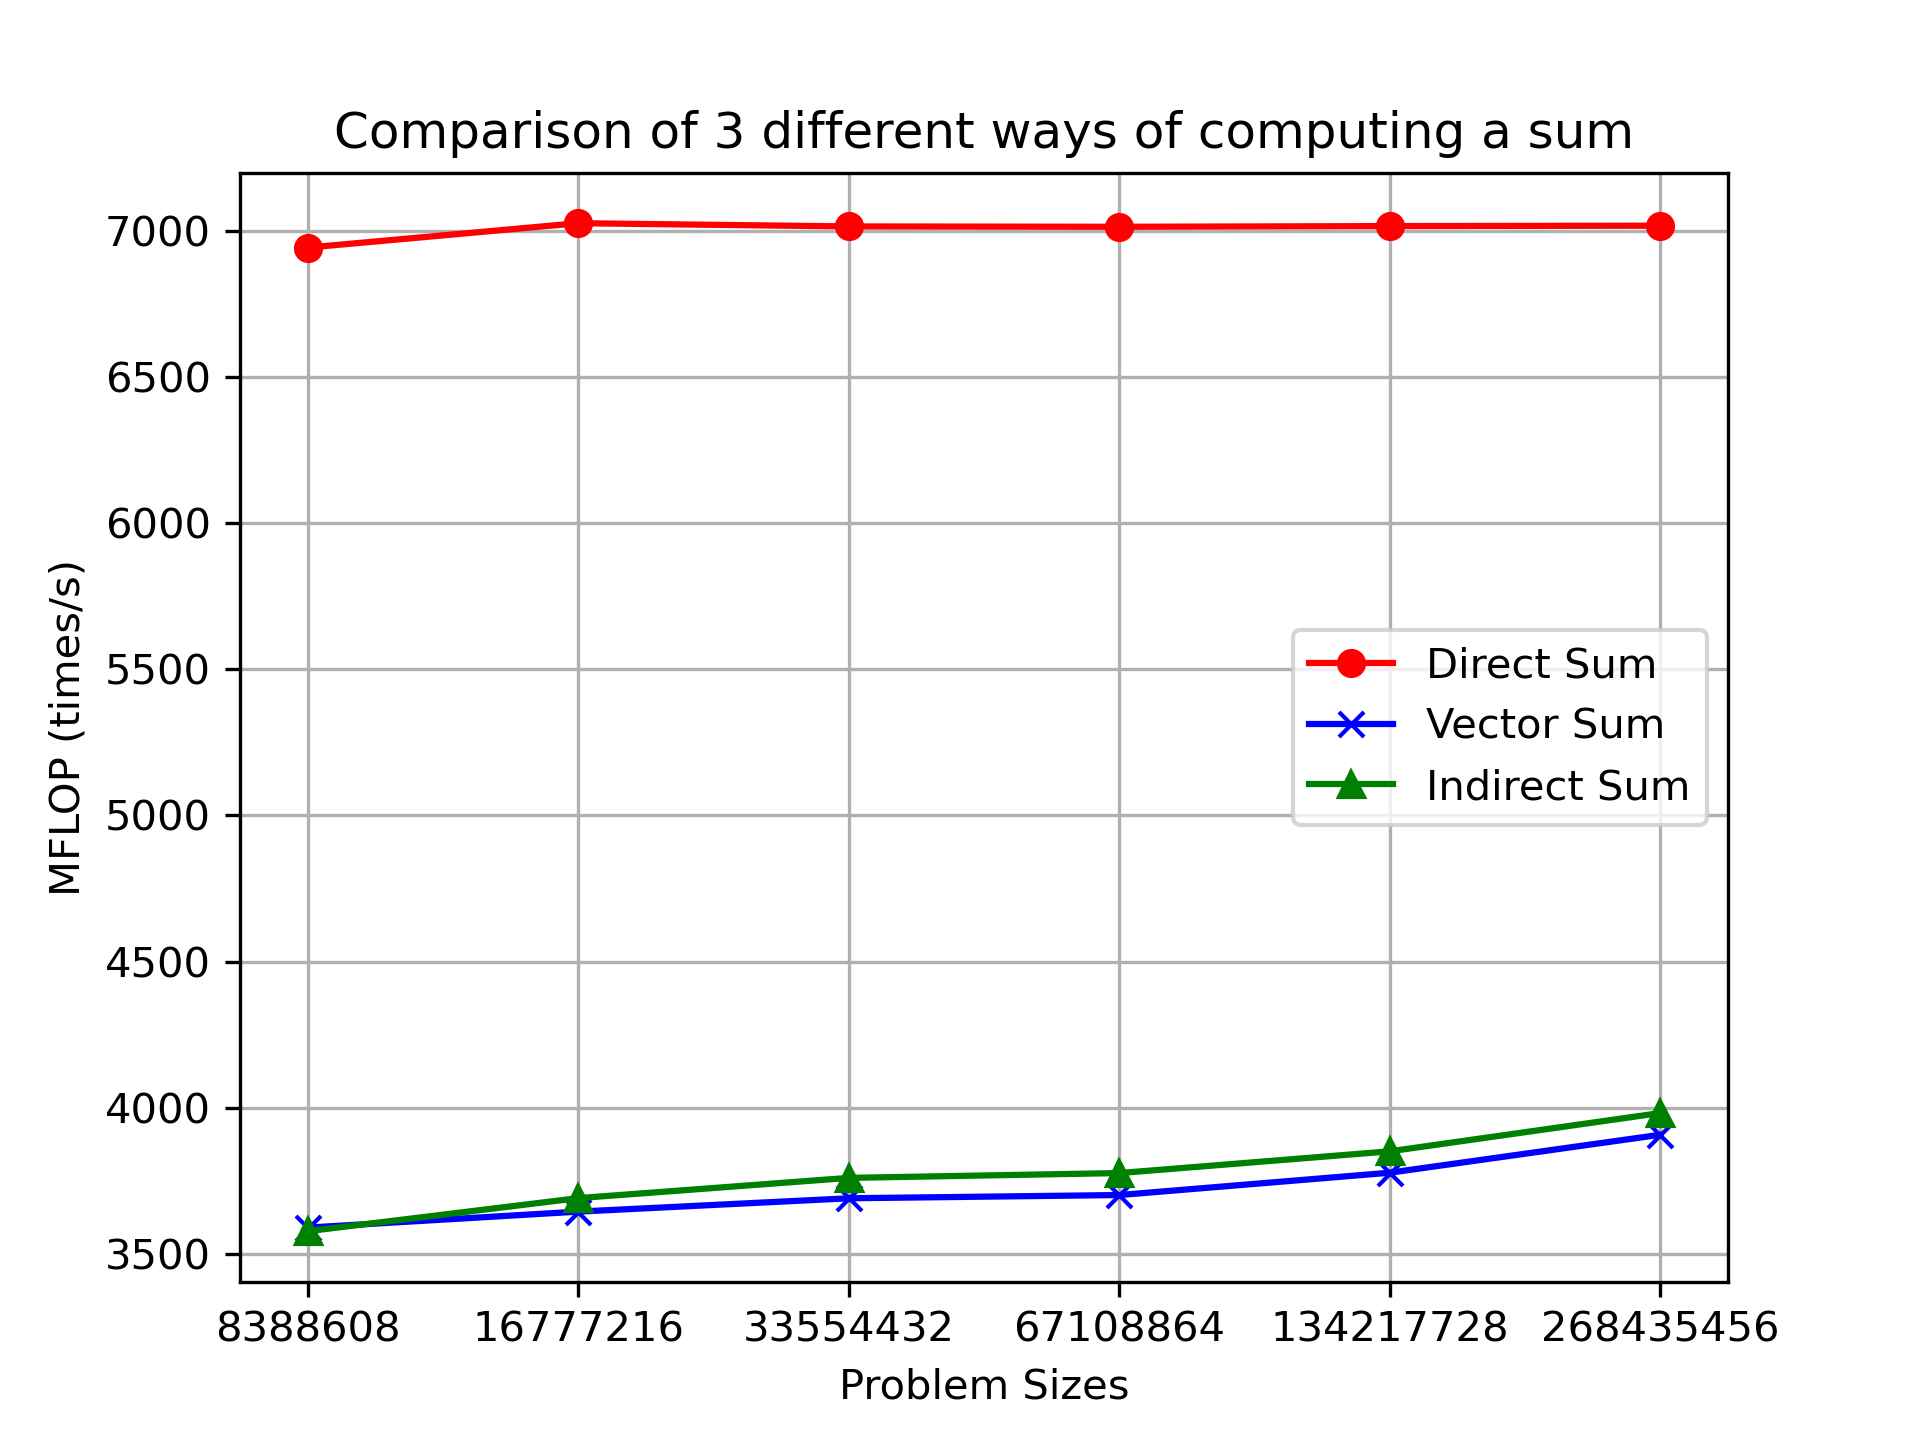
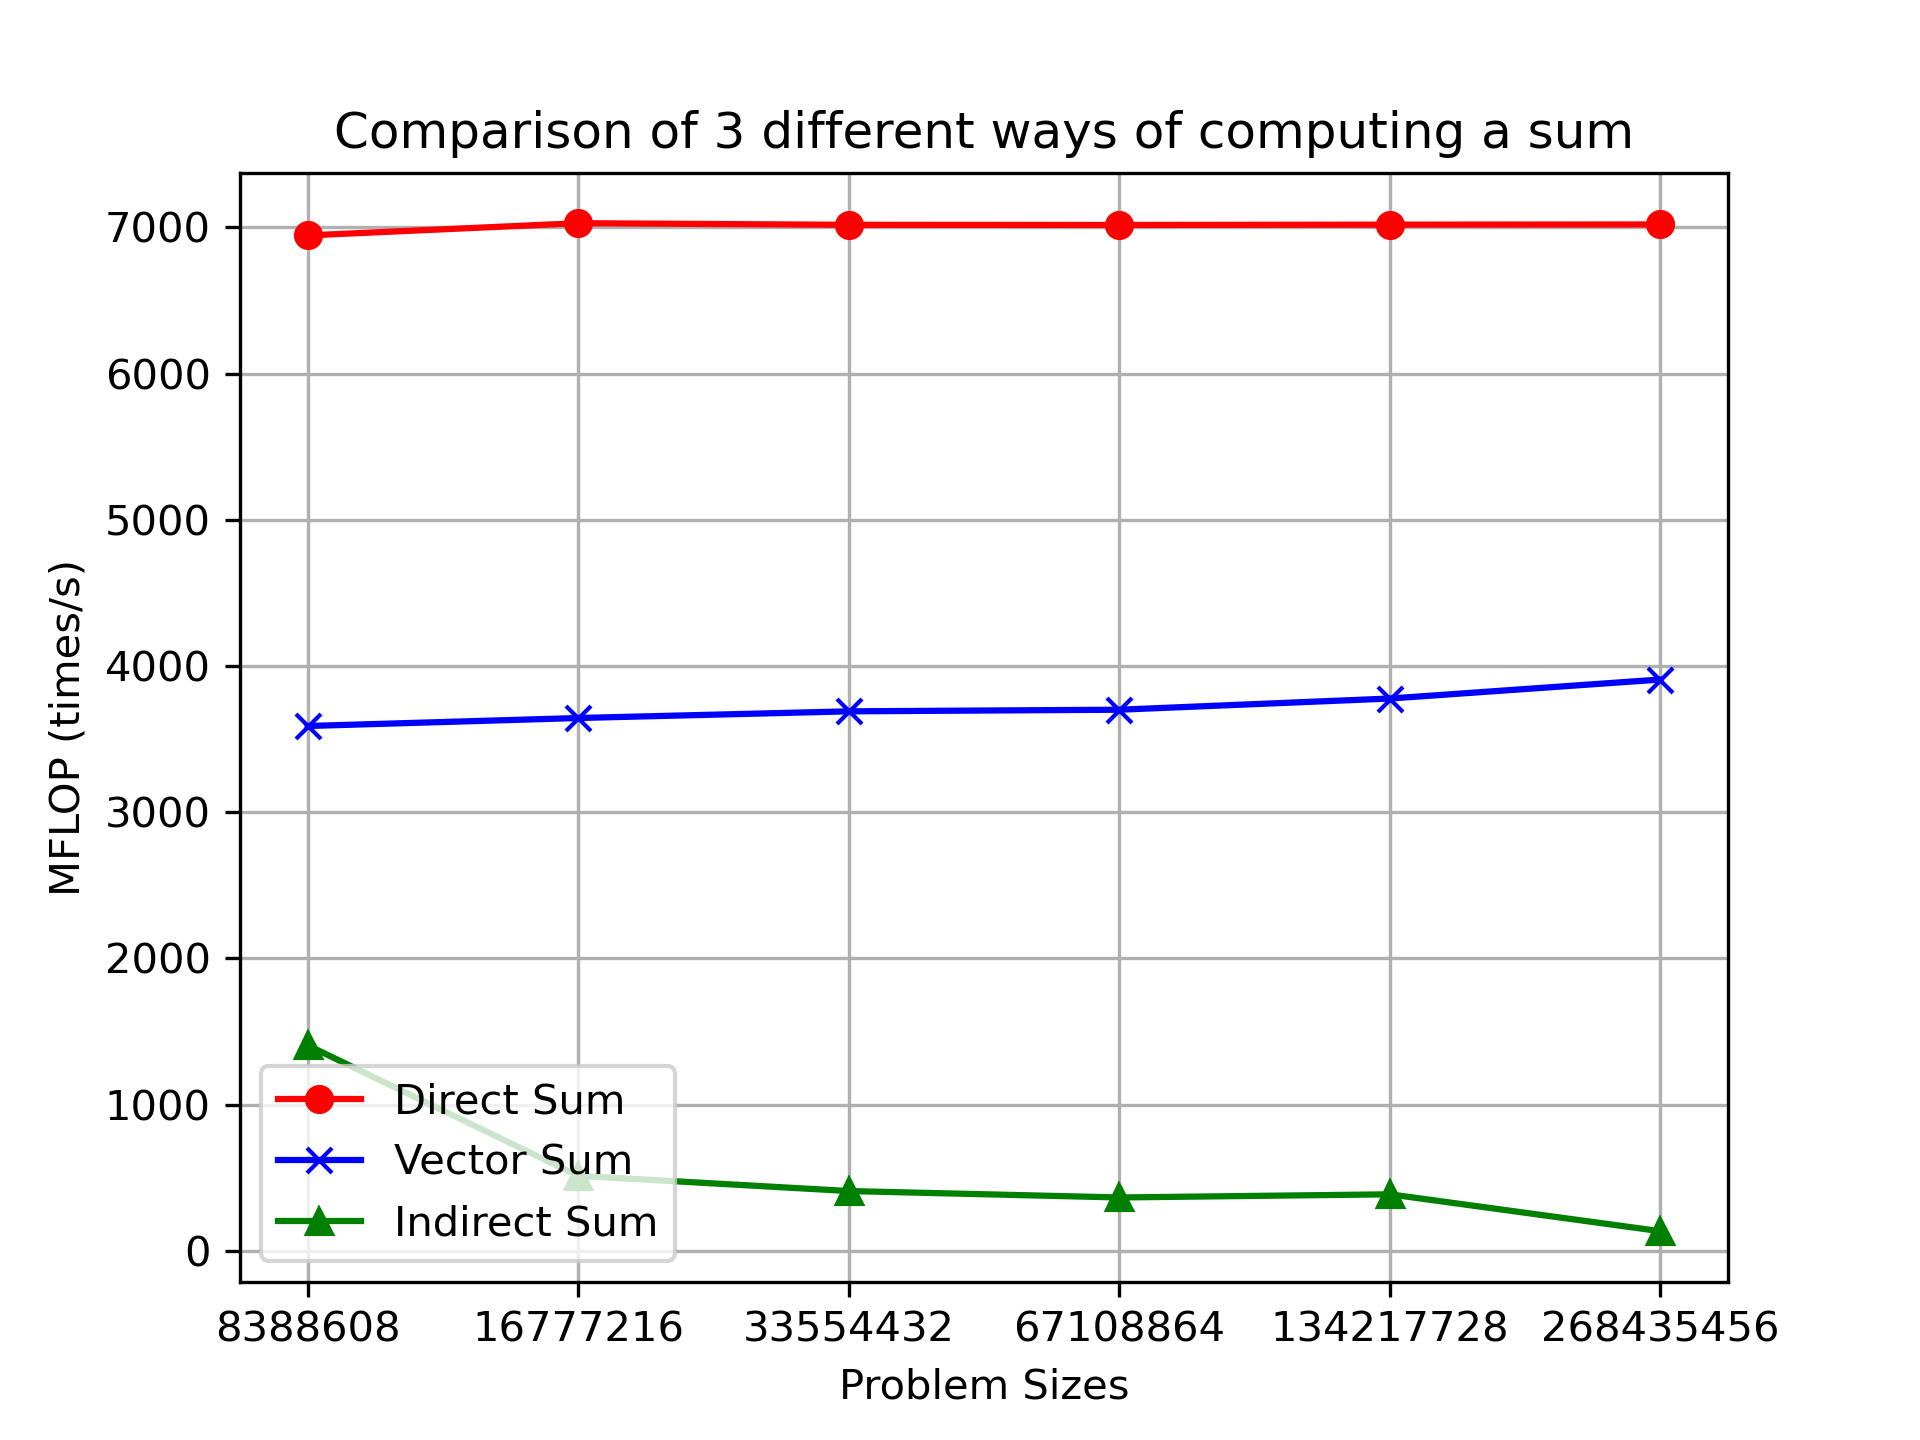
chore: update figures

diff --git a/benchmark.cpp b/benchmark.cpp
@@ -15,7 +15,7 @@
 #include <string.h>
 
 
-#define FLOP_PER_ELEM 1 
+#define FLOP_PER_ELEM 2 
 #define PEAK_BANDWIDTH 204.8e9 // 68 GB/s: Mac and 204.8 GB/s: NERSC 
 #define NUM_MEMORY_ACCESSES 1
 
